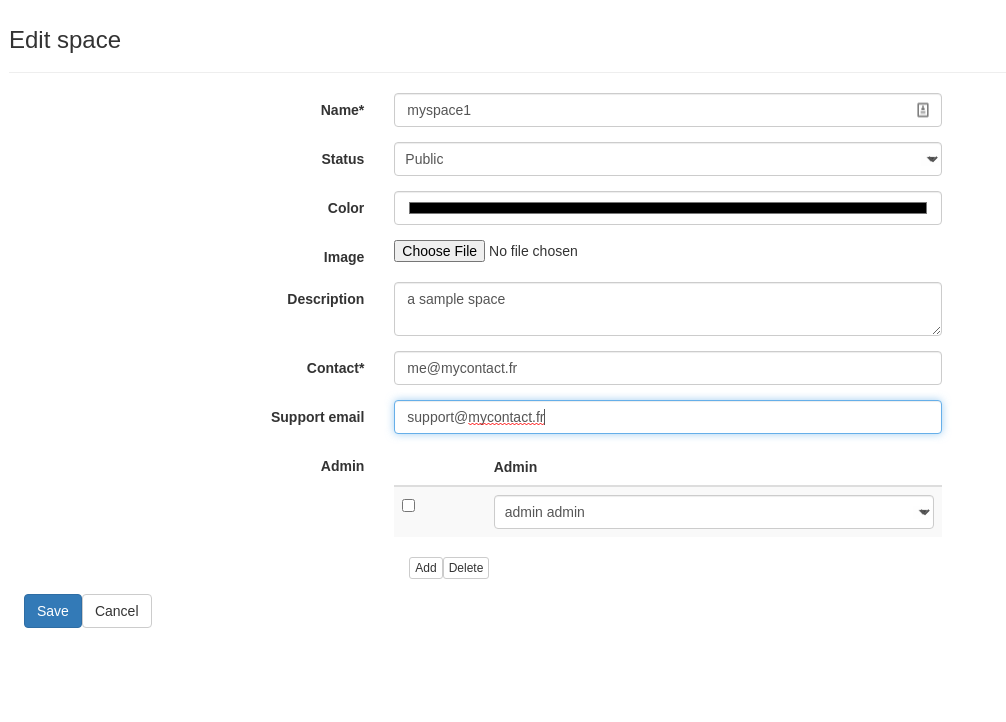
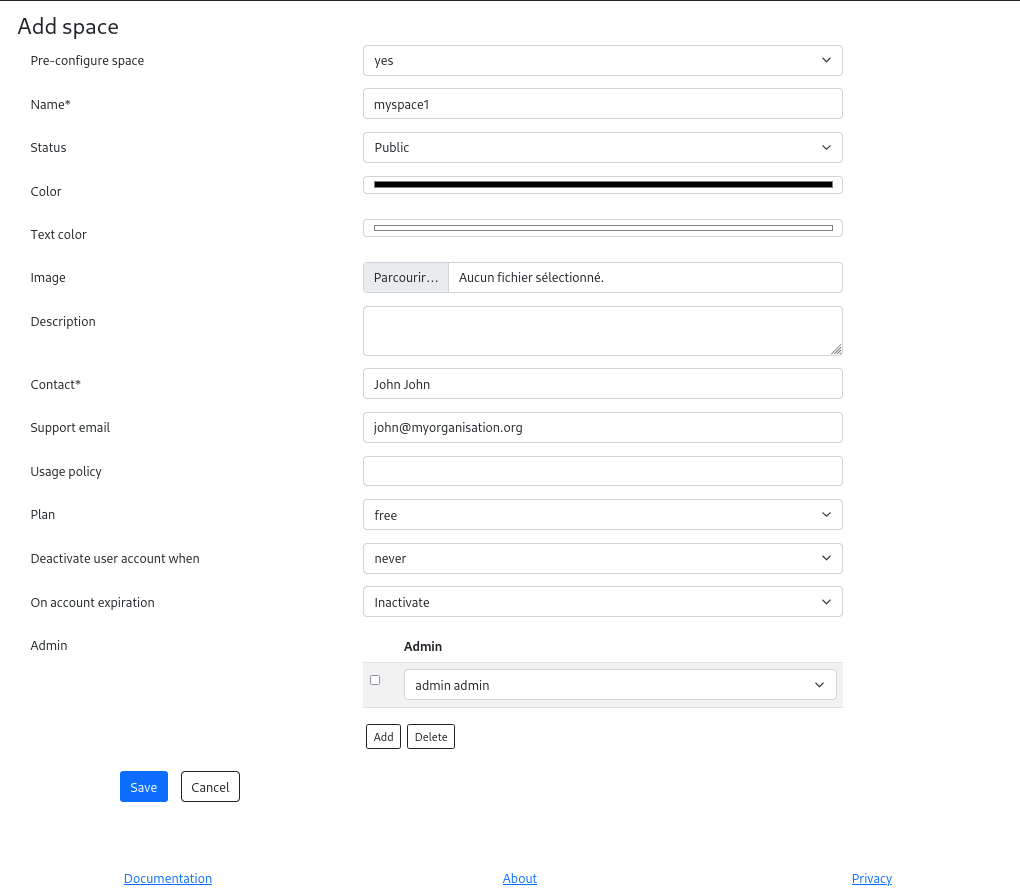
update getting started documentation

diff --git a/doc/content/admin/getting_started.md b/doc/content/admin/getting_started.md
@@ -17,7 +17,9 @@ In the *admin* menu, go to *Spaces*
 
 ![admin menu](../../install_2.png)
 
-Add a space
+Add a space.
+
+Note that you can choose to *pre-configure* your space. That will activate the base modules: [Booking](../../modules/module/booking/), [Resources](../../modules/module/resources) and [Clients](../../modules/module/clients)
 
 ![create space](../../install_3.png)
 
@@ -77,7 +79,7 @@ There are two ways to create a new user:
 - As a superadmin
 
 ### Create a user as a space admin
-See [Users management](../../manager/users/#creat-a-user-as-a-space-admin)
+See [Users management](../../manager/users/#create-a-user-as-a-space-admin)
 
 ### Create a user as a superadmin
 
